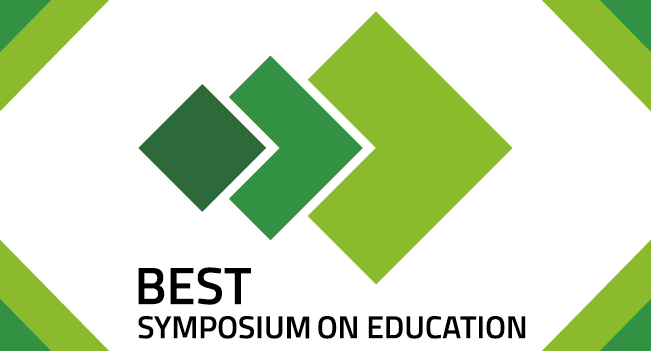
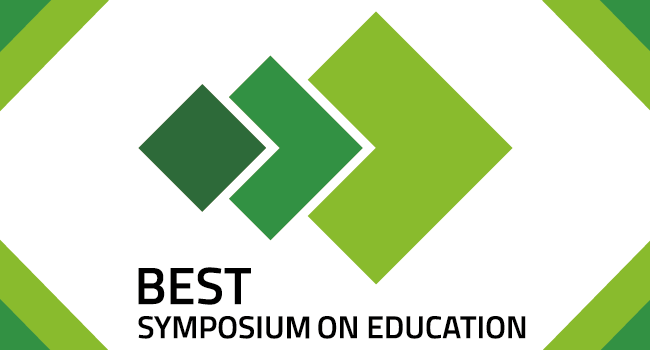
VI colors updated

diff --git a/index.html b/index.html
@@ -40,16 +40,16 @@
         <div class="collapse navbar-collapse" id="navbarResponsive">
           <ul class="navbar-nav ml-auto">
             <li class="nav-item">
-              <a class="nav-link js-scroll-trigger" href="#about">About</a>
+              <a class="nav-link js-scroll-trigger" href="#portfolio">About</a>
             </li>
-            <li class="nav-item">
+            <!--li class="nav-item">
               <a class="nav-link js-scroll-trigger" href="#services">Services</a>
             </li>
             <li class="nav-item">
-              <a class="nav-link js-scroll-trigger" href="#portfolio">Portfolio</a>
-            </li>
+              <a class="nav-link js-scroll-trigger" href="#portfolio">The Event</a>
+            </li>-->
             <li class="nav-item">
-              <a class="nav-link js-scroll-trigger" href="#contact">Contact</a>
+              <a class="nav-link js-scroll-trigger" href="#contact">Contacts</a>
             </li>
           </ul>
         </div>
@@ -57,15 +57,15 @@
     </nav>
 
     <header class="masthead text-center text-white d-flex">
-      <div class="container my-auto"  style="background: rgba(65,65,65, 0.95); height: 40%">
+      <div class="container my-auto"  style="background: rgba(65,65,65, 0.95); height: 50%">
         <div class="row">
           <div class="col-lg-12 mx-auto">
             <h1 class="text-uppercase">
-              BEST Sypmposium on Education </h1><br> <h2>Aveiro 2019</h2>
+              BEST Sypmposium on Education </h1><br> <h2>23 - 26 August </h2><h2>Aveiro</h2>
             <hr>
           </div>
           <div class="col-lg-8 mx-auto">
-            <p class="text-faded mb-5">Welcome to the Official Website of the 2019 BEST Symposium on Education <br> 26 August - 1 September </p>
+            <p class="text-faded mb-5">Welcome to the Official Website of the 2019 BEST Symposium on Education </p>
             <!--<a class="btn btn-primary btn-xl js-scroll-trigger" href="#portfolio">Find Out More</a>-->
           </div>
         </div>
@@ -162,7 +162,7 @@
           <div class="col-lg-4 col-sm-6">
             <a class="portfolio-box" href="img/portfolio/fullsize/3.jpg">
               <img class="img-fluid" src="img/portfolio/thumbnails/3.jpg" alt="">
-              <div class="portfolio-box-caption">
+              <div class="portfolio-box-caption ">
                 <div class="portfolio-box-caption-content">
                   <div class="project-category text-faded">
                   </div>
@@ -226,11 +226,11 @@
       </div>
     </section>-->
 
-    <section id="contact">
+    <section id="contact" class="bg-dark">
       <div class="container">
         <div class="row">
           <div class="col-lg-8 mx-auto text-center">
-            <h2 class="section-heading text-uppercase">contacts</h2>
+            <h2 class="section-heading text-uppercase" style="color: white">contacts</h2>
             <hr class="my-4">
             <p class="mb-5"></p>
           </div>
@@ -238,59 +238,66 @@
         <div class="row">
           <div class="col-lg-4 ml-auto text-center">
             <!--<i class="fas fa-phone fa-3x mb-3 sr-contact-1"></i>-->
-            <h5 style="">José Silva</h5>
+            <h5 style="color: white">José Silva</h5>
             <h6 style="color:white;" class="text-muted">Main Organiser of the BEST Symposium </h6>
             <br>
-            <a href="mailto:jorge.silva@BEST.eu.org" class="text-Mail">jose.silva@BEST.eu.org</a>
+            <a href="mailto:jorge.silva@BEST.eu.org" class="text-Mail">
+              <i class="fas fa-envelope mb-3 sr-contact-1"></i>
+              jose.silva@BEST.eu.org</a>
             <br>
-            <p class="marginTop">(+351) 918 311 076</p>
+            <p class="marginTop">
+              <i class="fas fa-phone mb-3 sr-contact-1"></i>
+              (+351) 918 311 076</p>
           </div>
           <div class="col-lg-4 mr-auto text-center">
             <!--<i class="fas fa-envelope fa-3x mb-3 sr-contact-2"></i>-->
-            <h5 style="">Jorge Silva</h5>
+            <h5 style="color:white;">Jorge Silva</h5>
             <h6 style="color:white;" class="text-muted">President of Local BEST Group Aveiro</h6>
             <br>
-            <a href="mailto:jorge.silva@BEST.eu.org" class="text-Mail">jorge.silva@BEST.eu.org</a>
+            <a href="mailto:jorge.silva@BEST.eu.org" class="text-Mail">
+              <i class="fas fa-envelope mb-3 sr-contact-1"></i>
+              jorge.silva@BEST.eu.org</a>
             <br>
-            <p class="marginTop">(+351) 917 077 329</p>
+            <p class="marginTop">
+              <i class="fas fa-phone mb-3 sr-contact-1"></i>
+              (+351) 917 077 329</p>
           </div>
         </div>
       </div>
-    </section>
 
     <div class="container">
       <div class="row">
         <div class="col-lg-3 col-md-6 text-center">
           <div class="service-box mt-5 mx-auto">
             <a href="https://www.facebook.com/BESTaveiro/" target="_blank">
-              <i class="fab fa-3x fa-facebook-f text-primary mb-3 sr-icon-1"></i>
+              <i class="fab fa-2x fa-facebook-f mb-3 sr-icon-1" style="color: #8aaa56"></i>
             </a>
           </div>
         </div>
         <div class="col-lg-3 col-md-6 text-center">
           <div class="service-box mt-5 mx-auto">
             <a href="https://www.linkedin.com/company/best-aveiro" target="_blank">
-              <i class="fab fa-3x fa-linkedin-in text-primary mb-3 sr-icon-2"></i>
+              <i class="fab fa-2x fa-linkedin-in mb-3 sr-icon-2" style="color: #8aaa56"></i>
             </a>
           </div>
         </div>
         <div class="col-lg-3 col-md-6 text-center">
           <div class="service-box mt-5 mx-auto">
             <a href="https://www.youtube.com/user/BESTAveir0" target="_blank">
-              <i class="fab fa-3x fa-youtube text-primary mb-3 sr-icon-3"></i>
+              <i class=" fab fa-2x fa-youtube mb-3 sr-icon-3" style="color: #8aaa56"></i>
             </a>
           </div>
         </div>
         <div class="col-lg-3 col-md-6 text-center">
           <div class="service-box mt-5 mx-auto">
             <a href="https://www.instagram.com/best.aveiro/" target="_blank">
-              <i class="fab fa-3x fa-instagram text-primary mb-3 sr-icon-4"></i>
+              <i class="fab fa-2x fa-instagram mb-3 sr-icon-4" style="color: #8aaa56"></i>
             </a>
           </div>
         </div>
       </div>
     </div>
-    <br>
+    </section>
 
 
 

diff --git a/css/creative.css b/css/creative.css
@@ -17,7 +17,7 @@ body {
 hr {
   max-width: 50px;
   border-width: 3px;
-  border-color: #F05F40;
+  border-color: #32BEBA;
 }
 
 hr.light {
@@ -25,13 +25,13 @@ hr.light {
 }
 
 a {
-  color: #F05F40;
+  color: #FBC415;
   -webkit-transition: all 0.2s;
   transition: all 0.2s;
 }
 
 a:hover {
-  color: #f05f40;
+  color:#fffb25;
 }
 
 h1,
@@ -101,12 +101,12 @@ img::-moz-selection {
 #mainNav .navbar-brand {
   font-weight: 700;
   text-transform: uppercase;
-  color: #F05F40;
+  color: #32BEBA;
   font-family: 'Open Sans', 'Helvetica Neue', Arial, sans-serif;
 }
 
 #mainNav .navbar-brand:focus, #mainNav .navbar-brand:hover {
-  color: #f05f40;
+  color: #32BEBA;
 }
 
 #mainNav .navbar-nav > li.nav-item > a.nav-link,
@@ -119,12 +119,12 @@ img::-moz-selection {
 
 #mainNav .navbar-nav > li.nav-item > a.nav-link:hover,
 #mainNav .navbar-nav > li.nav-item > a.nav-link:focus:hover {
-  color: #F05F40;
+  color: #32BEBA;
 }
 
 #mainNav .navbar-nav > li.nav-item > a.nav-link.active,
 #mainNav .navbar-nav > li.nav-item > a.nav-link:focus.active {
-  color: #F05F40 !important;
+  color: #32BEBA !important;
   background-color: transparent;
 }
 
@@ -142,7 +142,7 @@ img::-moz-selection {
     color: rgba(255, 255, 255, 0.7);
   }
   #mainNav .navbar-brand:focus, #mainNav .navbar-brand:hover {
-    color: #fff;
+    color: #32BEBA;
   }
   #mainNav .navbar-nav > li.nav-item > a.nav-link {
     padding: 0.5rem 1rem;
@@ -160,10 +160,10 @@ img::-moz-selection {
     background-color: rgba(0,0,0,0.9);
   }
   #mainNav.navbar-shrink .navbar-brand {
-    color: #F05F40;
+    color: #32BEBA;
   }
   #mainNav.navbar-shrink .navbar-brand:focus, #mainNav.navbar-shrink .navbar-brand:hover {
-    color: #f05f40;
+    color: #32BEBA;
   }
   #mainNav.navbar-shrink .navbar-nav > li.nav-item > a.nav-link,
   #mainNav.navbar-shrink .navbar-nav > li.nav-item > a.nav-link:focus {
@@ -171,7 +171,7 @@ img::-moz-selection {
   }
   #mainNav.navbar-shrink .navbar-nav > li.nav-item > a.nav-link:hover,
   #mainNav.navbar-shrink .navbar-nav > li.nav-item > a.nav-link:focus:hover {
-    color: #F05F40;
+    color: #32BEBA;
   }
 }
 
@@ -240,7 +240,7 @@ header.masthead p {
   text-align: center;
   opacity: 0;
   color: #fff;
-  background: rgba(240, 95, 64, 0.9);
+  background: rgba(50, 190, 186, 0.9);
   -webkit-transition: all 0.2s;
   transition: all 0.2s;
 }
